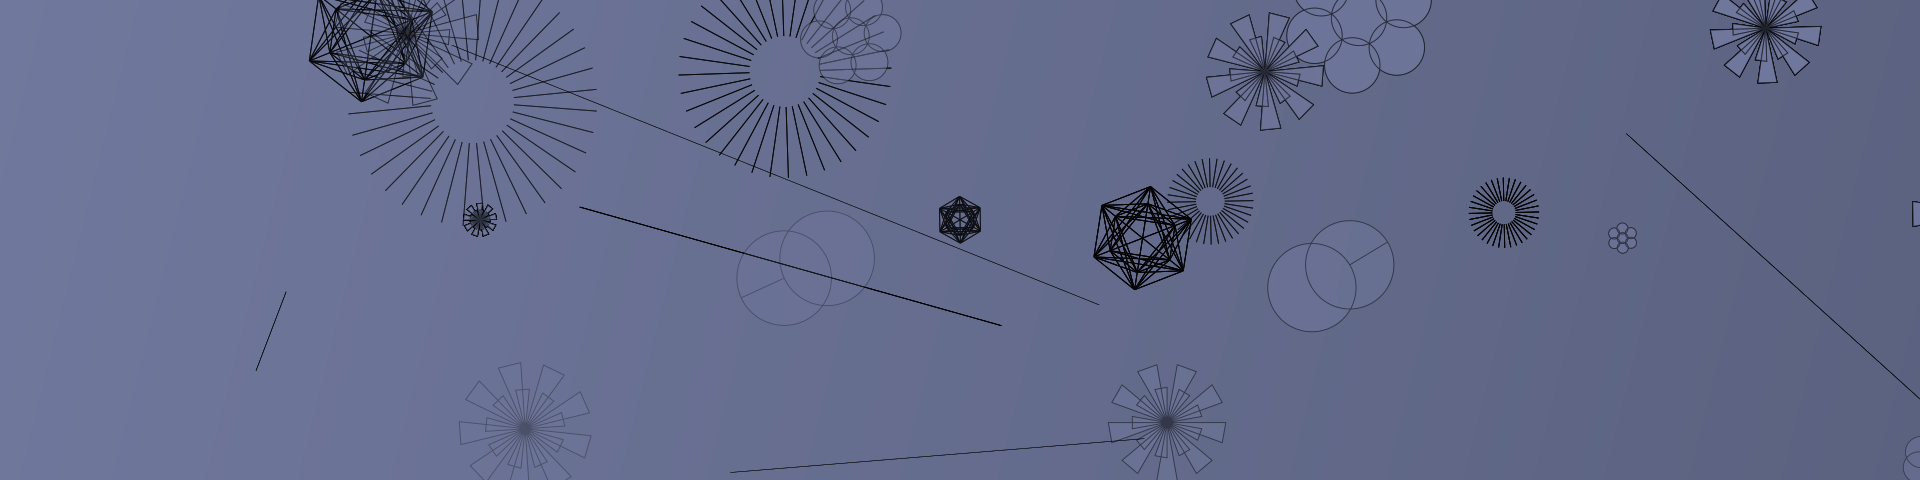
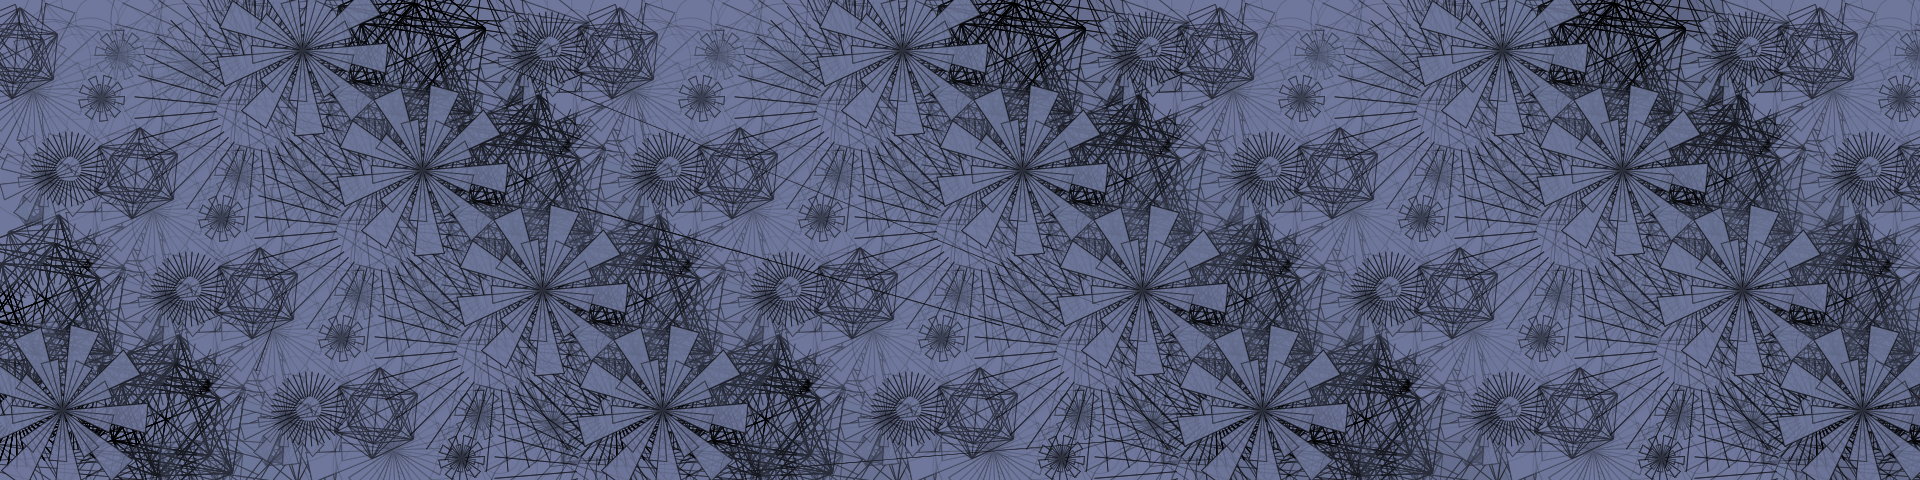
Update image generation settings
Revise default configurations in `generateImageFromHash` by increasing `width`, `height`, `gridSize`, and `layers` for enhanced image detail. Adjust `maxShapeSize`, `baseOpacity`, and `opacityReduction` for better visual effects. Switch color palette to `chakra` and update pattern preset to `cosmicTree`. Default `platonicSolid` type set to `tetrahedron`.

diff --git a/src/index.js b/src/index.js
@@ -36,14 +36,14 @@ if (!fs.existsSync(OUTPUT_DIR)) {
 function generateImageFromHash(gitHash, label = "", config = {}) {
   // Default configuration
   const defaultConfig = {
-    width: 1024,
-    height: 1024,
-    gridSize: 4,
-    layers: 5,
+    width: 2048,
+    height: 2048,
+    gridSize: 12,
+    layers: 8,
     minShapeSize: 20,
-    maxShapeSize: 360,
-    baseOpacity: 0.6,
-    opacityReduction: 0.1,
+    maxShapeSize: 600,
+    baseOpacity: 0.8,
+    opacityReduction: 0.4,
   };
 
   // Merge provided config with defaults
@@ -69,7 +69,7 @@ function generateImageFromHash(gitHash, label = "", config = {}) {
   // const oldColors = generateColorScheme(gitHash);
   
   const colorScheme = new SacredColorScheme(gitHash);
-  const colors = colorScheme.getColorPalette("sacred");
+  const colors = colorScheme.getColorPalette("chakra");
 
   // console.log({
   //   colorScheme,
@@ -175,7 +175,7 @@ function generateImageFromHash(gitHash, label = "", config = {}) {
         rotation,
         // Optionally add pattern combinations
         // patterns:
-        //   Math.random() > 0.7 ? PatternPresets.flowerOfLifeMandala(size) : [],
+        //   Math.random() > 0.7 ? PatternPresets.cosmicTree(size) : [],
         proportionType: "GOLDEN_RATIO",
       });
     }

diff --git a/src/lib/canvas/shapes/sacred.js b/src/lib/canvas/shapes/sacred.js
@@ -163,8 +163,8 @@ export const drawTorus = (ctx, size) => {
 
 // Add to the existing shapes map
 export const sacredShapes = {
-  flowerOfLife: drawFlowerOfLife,
-  treeOfLife: drawTreeOfLife,
+  // flowerOfLife: drawFlowerOfLife,
+  // treeOfLife: drawTreeOfLife,
   metatronsCube: drawMetatronsCube,
   sriYantra: drawSriYantra,
   seedOfLife: drawSeedOfLife,

diff --git a/src/lib/canvas/shapes/complex.js b/src/lib/canvas/shapes/complex.js
@@ -195,7 +195,7 @@ export const drawMerkaba = (ctx, size, config = {}) => {
 };
 
 export const complexShapes = {
-  platonicSolid: (ctx, size, type, config) =>
+  platonicSolid: (ctx, size, type = "tetrahedron", config) =>
     drawPlatonicSolid(ctx, size, type, config),
   fibonacciSpiral: (ctx, size, config) =>
     drawFibonacciSpiral(ctx, size, config),
